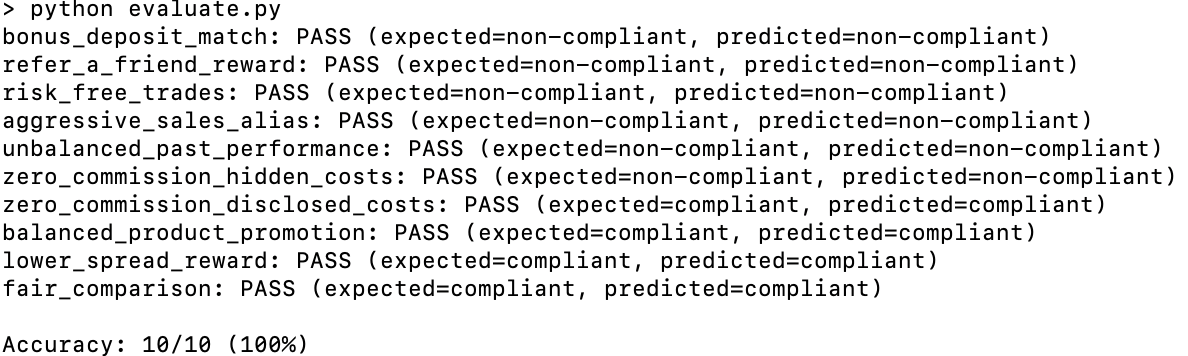
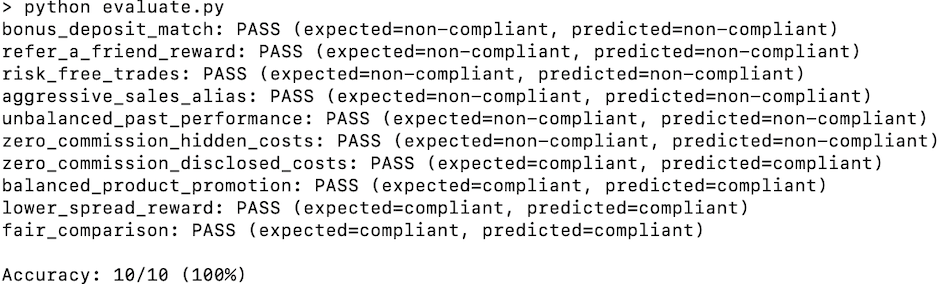
adjusting images sizes in README

diff --git a/README.md b/README.md
@@ -124,31 +124,23 @@ python evaluate.py
 
 The extraction step downloads the regulatory PDFs, extracts structured compliance rules, and stores them in `rules.json`.
 
-<p align="center">
-  <img src="assets/extraction.png" alt="Rule Extraction" width="800">
-</p>
+![Rule Extraction](assets/extraction.png)
 
 ### Compliance Evaluation
 
 #### Compliant Marketing Text
 
-<p align="center">
-  <img src="assets/compliant.png" alt="Compliant Result" width="800">
-</p>
+![Compliant Result](assets/compliant.png)
 
 #### Non-Compliant Marketing Text
 
-<p align="center">
-  <img src="assets/non_compliant.png" alt="Non-Compliant Result" width="800">
-</p>
+![Non-Compliant Result](assets/non_compliant.png)
 
 ### Golden Dataset Evaluation
 
 Running the evaluation against the golden dataset:
 
-<p align="center">
-  <img src="assets/evaluation.png" alt="Evaluation" width="800">
-</p>
+![Evaluation](assets/evaluation.png)
 
 ## Architectural Design Decisions
 
